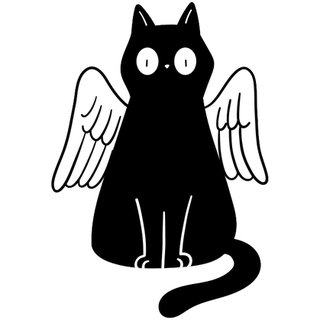
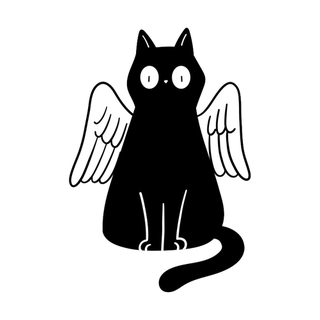
cat update

diff --git a/duell.html b/duell.html
@@ -403,7 +403,12 @@ html,body { height:100%; background:var(--bg); color:var(--text); font-family:'D
                     cursor:pointer; -webkit-appearance:none;
                     opacity:0; transform:translate(0,0) scale(.4);
                     transition:transform .26s cubic-bezier(.34,1.56,.64,1), opacity .18s; }
-.reaktWahl button img { width:78%; height:78%; display:block; margin:11%; }
+/* Füllt die Kachel ganz aus, obwohl die Katze früher mit Rand saß: Seit der
+   Aufkleberrand in den PNG steckt, bringt jedes Bild rund 16% Polster mit.
+   Auf der weißen Kachel ist der Rand unsichtbar, die Katze wäre bei 78% nur
+   noch halb so groß erschienen. Die Ecken des Quadrats ragen zwar über den
+   runden Knopf hinaus, sind dort aber durchsichtig. */
+.reaktWahl button img { width:100%; height:100%; display:block; }
 .reaktWahl.da { pointer-events:auto; }
 .reaktWahl.da button { opacity:1; transform:translate(var(--x),var(--y)) scale(1); }
 .reaktWahl button:active { filter:brightness(.92); }
@@ -421,18 +426,14 @@ html,body { height:100%; background:var(--bg); color:var(--text); font-family:'D
              display:flex; flex-direction:column; align-items:center; gap:4px;
              animation:reaktEin .55s cubic-bezier(.2,1.5,.4,1) forwards,
                        reaktAus .7s ease-in 1.5s forwards; }
-/* Weißer Rand wie bei einem Aufkleber. Die Katzen sind schwarze Silhouetten,
-   und die einfliegende zieht über die Karte – die ist dunkel, dort war die
-   Katze kaum zu erkennen. Vier verkettete drop-shadow ohne Weichzeichnung:
-   Jeder wirkt auf das Ergebnis des vorigen, dadurch schließt sich der Rand
-   auch an den Ecken, wo vier einzelne Schatten Lücken ließen. Der weiche
-   Schatten kommt zuletzt, damit er der umrandeten Silhouette folgt.
-   Nur hier und nicht in der Auswahl: dort sitzen die Katzen auf weißen
-   Kacheln und brauchen keinen Rand. */
+/* Der weiße Aufkleberrand steckt in den PNG selbst, nicht in einem Filter.
+   Über verkettete drop-shadow ging es nicht: Die verfolgen die Alphakante
+   genau und umrandeten deshalb jede Fellzacke und jeden Zitterstrich einzeln –
+   ein weißer Kamm statt einer Kontur. Gebacken wird sie über eine
+   weichgezeichnete und hart geschwellte Alphamaske, die rundet und Lücken
+   überbrückt (siehe reactions/ im README). Hier bleibt nur der Schatten. */
 .reaktFlug img { width:100%; height:auto; display:block;
-                 filter:drop-shadow(3px 0 0 #fff) drop-shadow(-3px 0 0 #fff)
-                        drop-shadow(0 3px 0 #fff) drop-shadow(0 -3px 0 #fff)
-                        drop-shadow(0 8px 18px rgba(40,30,80,.22)); }
+                 filter:drop-shadow(0 8px 18px rgba(40,30,80,.22)); }
 .reaktFlug span { font-size:11px; font-weight:700; letter-spacing:.4px;
                   color:var(--muted); background:var(--surface);
                   border:1px solid var(--border); border-radius:50px; padding:3px 9px;

diff --git a/README.md b/README.md
@@ -39,7 +39,7 @@ supabase.js             Supabase-Bibliothek, eigenständig (siehe Fallstricke!)
 songs.json              336 Songs mit Vorschau-URLs — nur fürs Offlinespiel, unangetastet
 songs-online.json       1429 Songs fürs Onlinespiel (enthält die 336)
 flags/                  53 Herzflaggen als PNG, 128×128 — eine je Land der Online-Datei
-reactions/              14 Katzen als PNG, 320×320 — Reaktionen im Duell
+reactions/              14 Katzen als PNG, 320×320, mit gebackenem Aufkleberrand
 anleitung.html          Spielanleitung fürs gedruckte Kartenspiel
 anleitung-online.html   Spielanleitung für den Online-Modus (Prinzip, Solo vs. Mehrspieler, Veto)
 Logo.png / Logo.svg     Bildmarke (Logo.svg NICHT verwenden, siehe Fallstricke)
@@ -453,12 +453,26 @@ Vier Sachen, die beim Bauen nicht auf Anhieb saßen:
   Die Knöpfe sind deshalb von 42 auf **36px** geschrumpft, sonst reichte der dritte Ring über
   den rechten Rand. Nachgemessen auf 320×568, 390×844 und 430×932: keine Überlappung, keine
   Katze außerhalb.
-* **Weißer Rand nur an der fliegenden Katze.** Die Katzen sind schwarze Silhouetten, und die
-  einfliegende zieht über die Karte — die ist dunkel, dort war sie kaum zu erkennen. Vier
-  verkettete `drop-shadow` ohne Weichzeichnung ergeben den Aufkleberrand: Jeder wirkt auf das
-  Ergebnis des vorigen, dadurch schließt er sich auch an den Ecken, wo vier einzelne Schatten
-  Lücken ließen. Der weiche Schatten kommt zuletzt, damit er der umrandeten Silhouette folgt.
-  In der Auswahl bleibt der Rand weg, dort sitzen die Katzen auf weißen Kacheln.
+* **Der weiße Aufkleberrand steckt in den PNG, nicht in einem Filter.** Die Katzen sind schwarze
+  Silhouetten, und die einfliegende zieht über die dunkle Karte — dort war sie kaum zu erkennen.
+  Der erste Versuch über verkettete `drop-shadow` scheiterte an der Bildsprache: Die verfolgen
+  die Alphakante genau und umrandeten deshalb **jede Fellzacke und jeden Zitterstrich einzeln** —
+  bei `cat-spooked-fur` ein weißer Kamm am Schwanz, bei `cat-startled` verstreute Schnipsel um
+  die Katze herum. Ein Stanz-Sticker folgt aber der groben Form, nicht der Zeichnung.
+
+  Gebacken wird er deshalb beim Aufbereiten der Bilder: Alphakanal weichzeichnen (σ 16), hart
+  schwellen (18), einmal nachglätten, 1,2 px Antialiasing. Das Weichzeichnen rundet Ecken und
+  überbrückt Lücken bis etwa 2σ — genau das lässt die Zacken in einer geschlossenen Form
+  verschwinden. Die Werte sind erprobt: σ 8 und 12 folgten den Zacken noch, σ 20 schnitt bei
+  `cat-grumpy` am Bildrand ab. Ein echtes morphologisches Schließen (stark wachsen, dann
+  zurückschrumpfen) fasste die Zitterstriche besser, brauchte aber so viel Rand, dass die Katze
+  zu klein wurde.
+
+  Dafür sitzt der Inhalt mit **26 px Polster** im 320er-Rahmen, sonst würde die Kontur an der
+  Bildkante abgeschnitten — geprüft ist für alle 14, dass die Maske den Rand nicht berührt. Weil
+  jedes Bild dadurch rund 16 % Polster mitbringt, füllt es in der Auswahl die Kachel **ganz**
+  (vorher 78 %): Auf der weißen Kachel ist der Rand unsichtbar, die Katze wäre sonst geschrumpft.
+  Im CSS bleibt nur der weiche Schatten.
 * **Knopf und Katzen liegen außerhalb der Bildschirme**, obwohl sie nur zum Spielbildschirm
   gehören. `.screen.hidden` trägt ein `transform`, und das spannt für `position:fixed` einen
   eigenen Bezugsrahmen auf — als Kind läge der Knopf relativ zum geschrumpften Bildschirm und
